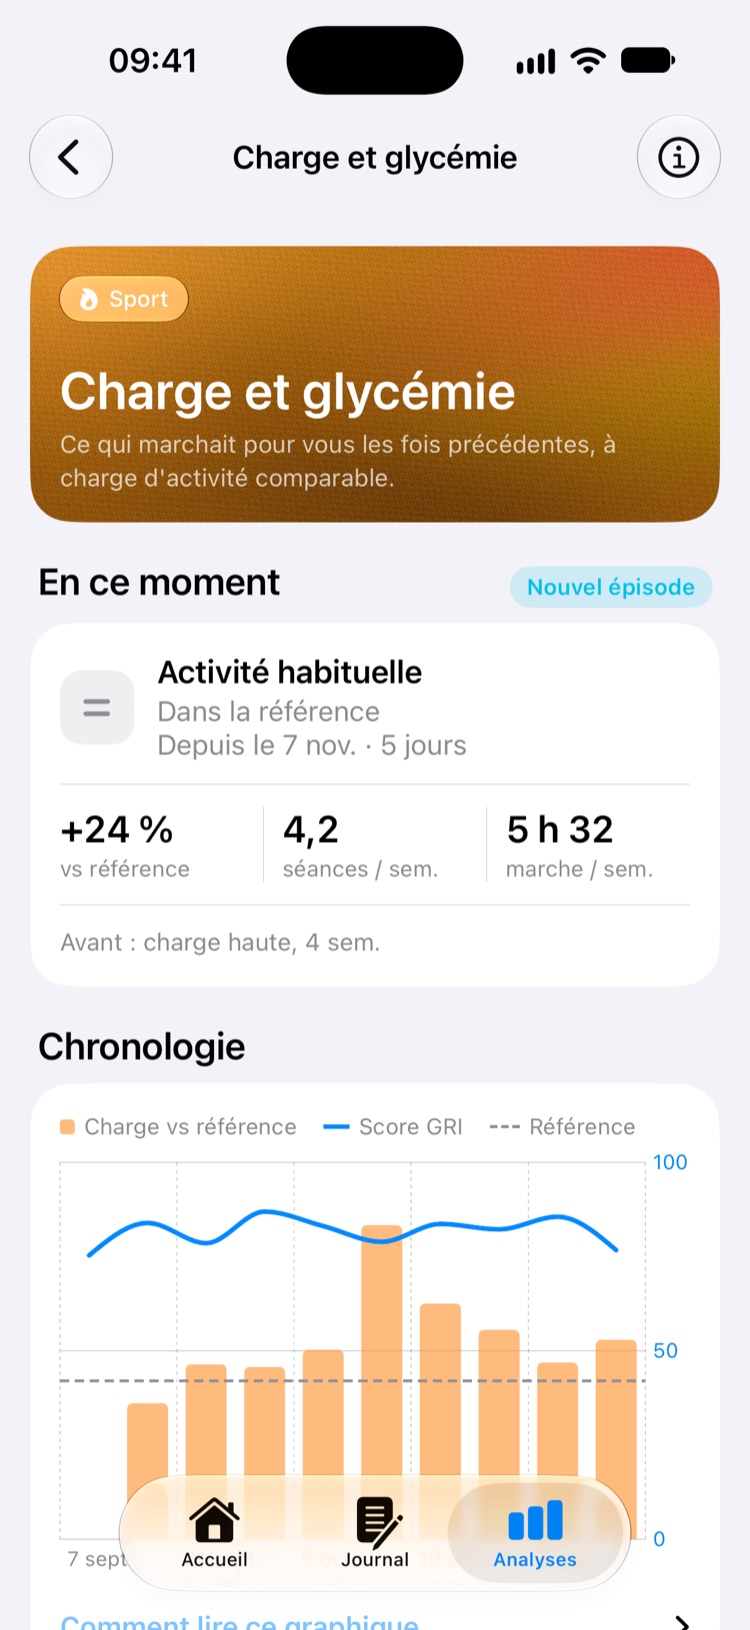
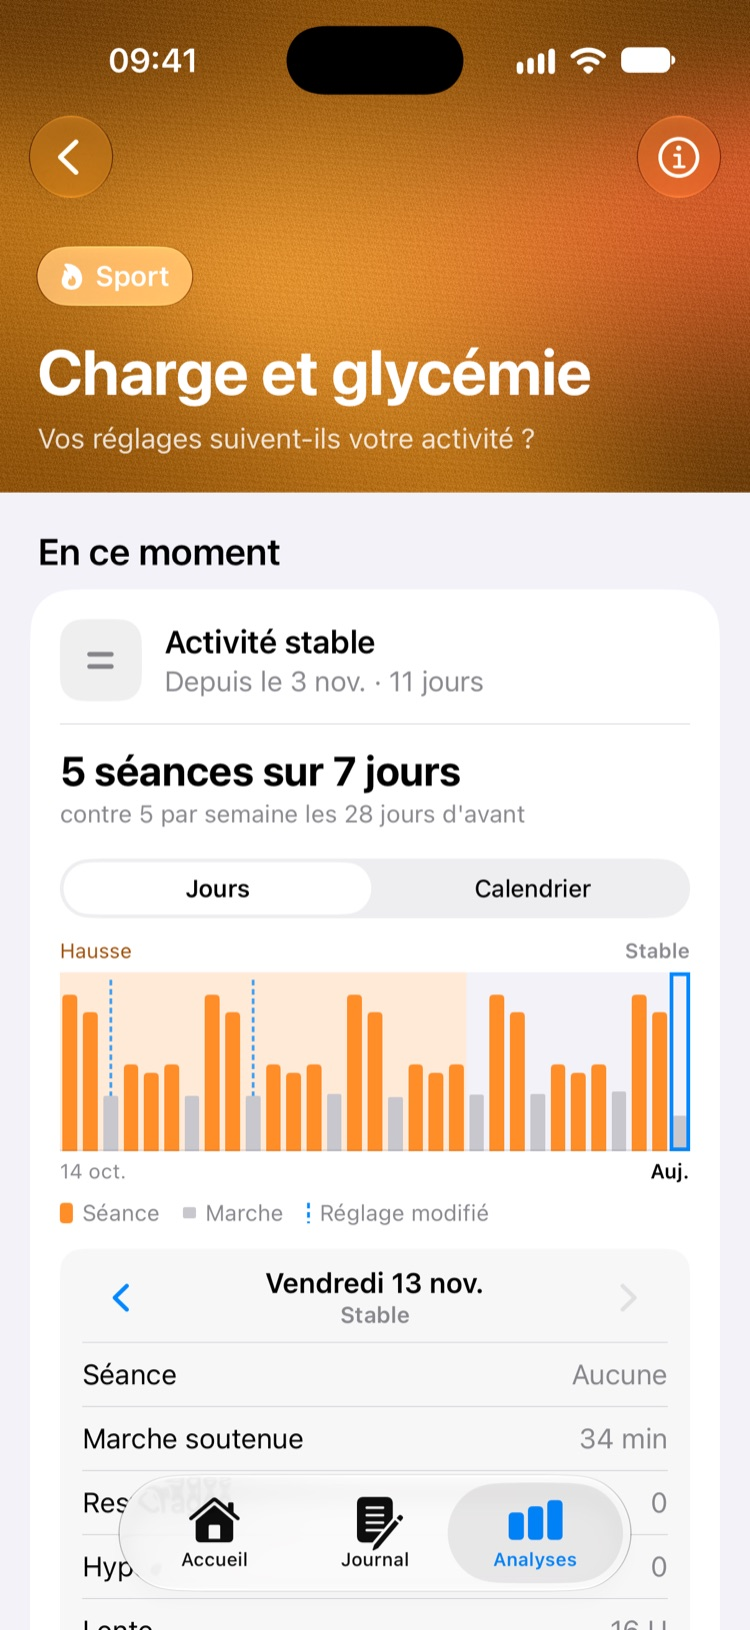
site : captures refaites (bandeau plein écran, charge et glycémie) et texte de la charge d'activité à jour

diff --git a/site/index.html b/site/index.html
@@ -257,14 +257,14 @@
     </article>
 
     <article class="notion">
-      <figure class="iphone petit"><div class="ecran"><img src="images/ecrans/charge.jpg" alt="Charge d'activité et glycémie" loading="lazy"></div></figure>
+      <figure class="iphone petit"><div class="ecran"><img src="images/ecrans/charge.jpg" alt="Charge et glycémie : l'activité du moment, jour par jour" loading="lazy"></div></figure>
       <div class="notion-texte">
         <h3>La charge d'activité</h3>
         <p class="notion-accroche">Une semaine chargée ne ressemble pas à une semaine calme.</p>
-        <p class="notion-corps">L'app estime ce qui reste actif des séances et de la marche, et le compare aux semaines habituelles de la personne. Chaque effort compte, puis s'efface avec le temps.</p>
+        <p class="notion-corps">L'app repère quand l'activité change nettement : hausse, baisse, ou retour à l'habitude. Ce repérage ne regarde que les séances et la marche, jamais la glycémie ni les réglages.</p>
         <details>
           <summary>En savoir plus</summary>
-          <p>Les réglages en vigueur (insuline lente, ratios) sont mis en regard de chaque période de charge, chacun avec son propre compte depuis son dernier changement. La référence est personnelle, jamais une norme. L'app décrit ; elle ne dit pas quel réglage choisir.</p>
+          <p>Pendant un changement, elle montre ce que les réglages en vigueur (insuline lente, ratios) ont donné nuit après nuit et repas après repas, sans verdict, à côté de la dernière hausse comparable. La référence est celle de la personne, jamais une norme. L'app décrit ; elle ne dit pas quel réglage choisir.</p>
         </details>
       </div>
     </article>

diff --git a/site/en/index.html b/site/en/index.html
@@ -257,14 +257,14 @@
     </article>
 
     <article class="notion">
-      <figure class="iphone petit"><div class="ecran"><img src="../images/ecrans/charge.jpg" alt="Activity load and glucose" loading="lazy"></div></figure>
+      <figure class="iphone petit"><div class="ecran"><img src="../images/ecrans/charge.jpg" alt="Load and glucose: current activity, day by day" loading="lazy"></div></figure>
       <div class="notion-texte">
         <h3>Activity load</h3>
         <p class="notion-accroche">A busy week doesn't look like a quiet one.</p>
-        <p class="notion-corps">The app estimates what remains active from sessions and walking, and compares it with the person's usual weeks. Each effort counts, then fades over time.</p>
+        <p class="notion-corps">The app spots when activity changes clearly: a rise, a drop, or a return to usual. This only looks at sessions and walking, never at glucose or settings.</p>
         <details>
           <summary>Learn more</summary>
-          <p>The settings in use (basal insulin, ratios) are set against each load period, each with its own count since its last change. The reference is personal, never a norm. The app describes; it doesn't say which setting to choose.</p>
+          <p>During a change, it shows what the settings in use (basal insulin, ratios) gave night after night and meal after meal, without a verdict, next to the last comparable rise. The reference is the person's own, never a norm. The app describes; it doesn't say which setting to choose.</p>
         </details>
       </div>
     </article>
